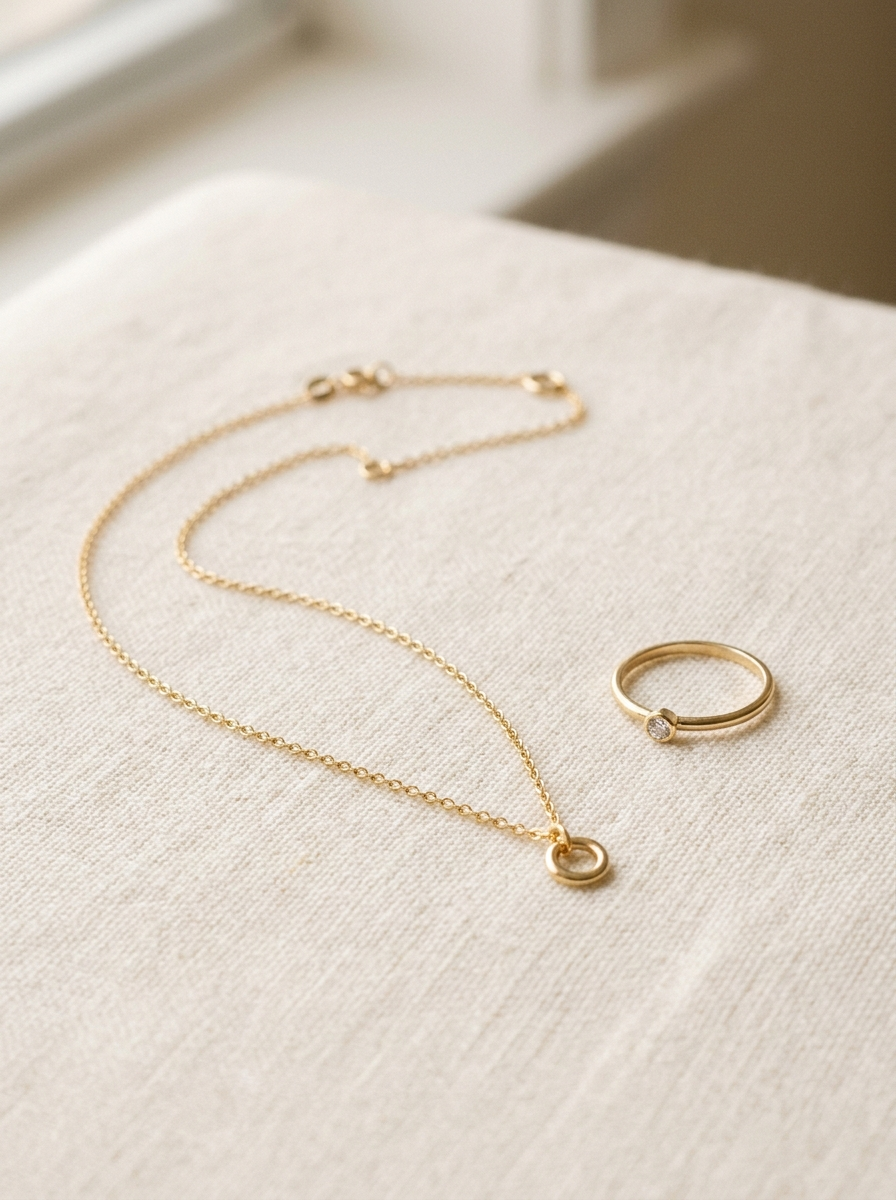
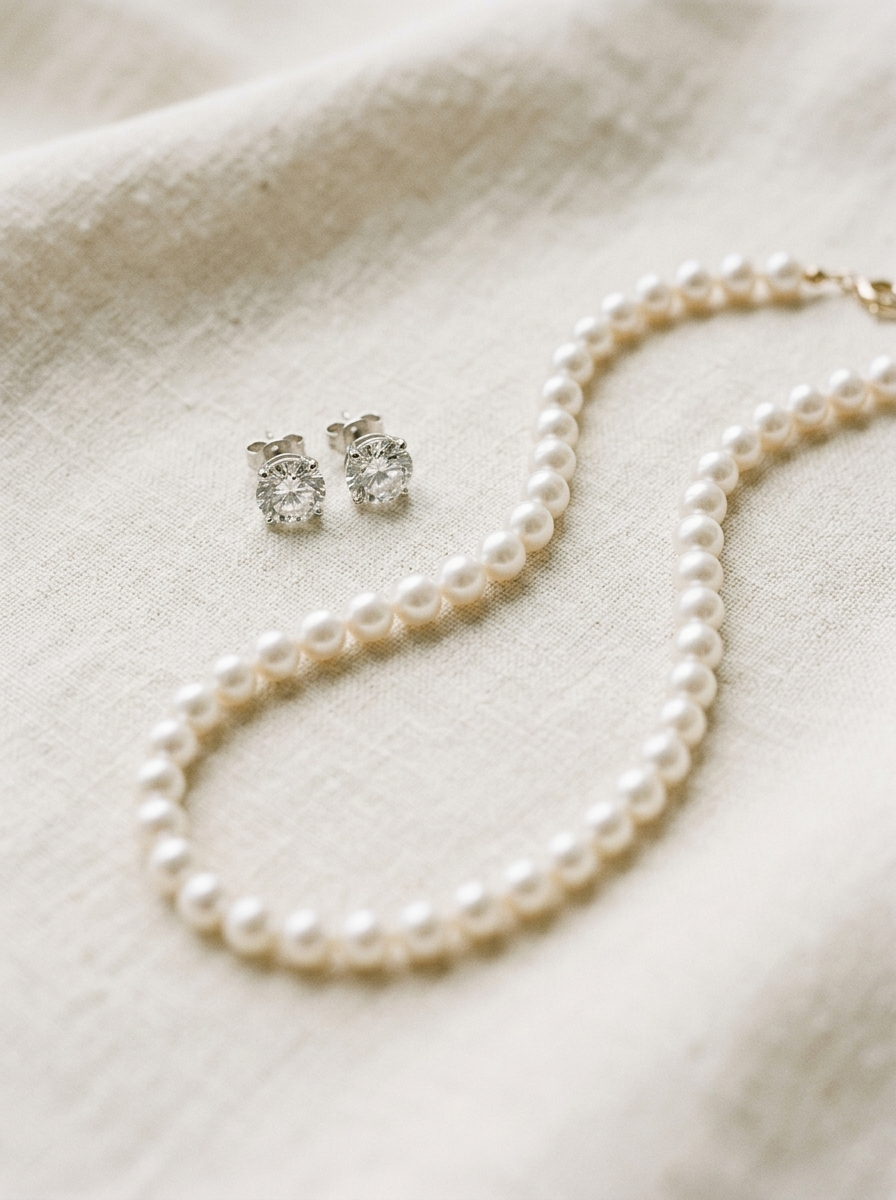
Update hero images to new women's accessories (pearls & emerald)

diff --git a/components/home/Hero.tsx b/components/home/Hero.tsx
@@ -2,6 +2,7 @@
 
 import React from "react";
 import Link from "next/link";
+import Image from "next/image";
 import { m } from "framer-motion";
 import { Heading, Text } from "../ui/Typography";
 import { Button } from "../ui/Button";
@@ -16,15 +17,24 @@ export function Hero() {
         transition={{ duration: 0.8 }}
         className="relative flex-1 h-full bg-[#EAE2D3] text-[#2B2622] flex flex-col items-center justify-center overflow-hidden group"
       >
+        <Image
+          src="/images/core-hero-bg.jpg"
+          alt="Core Collection - Minimalist gold chain and ring"
+          fill
+          priority
+          sizes="(max-width: 768px) 100vw, 50vw"
+          className="object-cover opacity-60 transition-transform duration-1000 group-hover:scale-105"
+        />
+        <div className="absolute inset-0 bg-[#EAE2D3]/40 z-0"></div>
         <Link href="#core-section" className="relative z-10 w-full h-full flex flex-col items-center justify-center text-center p-8">
-          <Heading as="h1" className="text-5xl md:text-7xl font-serif tracking-tight mb-4">
-            gl<span className="text-[#C9A227]">✦</span>nt
+          <Heading as="h1" className="text-6xl md:text-8xl font-serif font-bold tracking-tight mb-4">
+            glint
           </Heading>
-          <Text className="text-xs md:text-sm uppercase tracking-[0.3em] text-[#2B2622]/60 font-semibold mb-8">
+          <Text className="text-xs md:text-sm uppercase tracking-[0.3em] text-[#2B2622]/80 font-semibold mb-8">
             On Core
           </Text>
           
-          <Text className="max-w-xs text-sm md:text-base mx-auto mb-8 hidden md:block">
+          <Text className="max-w-xs text-sm md:text-base mx-auto mb-8 hidden md:block text-[#2B2622]/90 font-medium drop-shadow-sm">
             The quiet system. Minimalist pieces designed to be lived in, loved, and passed down.
           </Text>
           
@@ -41,19 +51,28 @@ export function Hero() {
         transition={{ duration: 0.8, delay: 0.2 }}
         className="relative flex-1 h-full bg-[#2B2622] text-[#EAE2D3] flex flex-col items-center justify-center overflow-hidden group"
       >
+        <Image
+          src="/images/loud-hero-bg.jpg"
+          alt="Loud Collection - Statement watch and coral drop hoop"
+          fill
+          priority
+          sizes="(max-width: 768px) 100vw, 50vw"
+          className="object-cover opacity-70 transition-transform duration-1000 group-hover:scale-105"
+        />
+        <div className="absolute inset-0 bg-[#2B2622]/50 z-0"></div>
         <Link href="#loud-section" className="relative z-10 w-full h-full flex flex-col items-center justify-center text-center p-8">
-          <Heading as="h1" className="text-5xl md:text-7xl font-serif tracking-tight mb-4 text-[#EAE2D3]">
-            gl<span className="text-[#C9A227]">✦</span>nt
+          <Heading as="h1" className="text-6xl md:text-8xl font-serif font-bold tracking-tight mb-4 text-[#EAE2D3] drop-shadow-lg">
+            glint
           </Heading>
-          <Text className="text-xs md:text-sm uppercase tracking-[0.3em] text-[#EAE2D3]/60 font-semibold mb-8">
+          <Text className="text-xs md:text-sm uppercase tracking-[0.3em] text-[#EAE2D3]/90 font-semibold mb-8 drop-shadow-md">
             On Loud
           </Text>
           
-          <Text className="max-w-xs text-sm md:text-base text-[#EAE2D3] mx-auto mb-8 hidden md:block">
+          <Text className="max-w-xs text-sm md:text-base text-[#EAE2D3] mx-auto mb-8 hidden md:block font-medium drop-shadow-md">
             The vivid family. Statement pieces pulled from our bestselling in-store colorways.
           </Text>
           
-          <Button variant="outline" className="border-[#EAE2D3] text-[#EAE2D3] hover:bg-[#EAE2D3] hover:text-[#2B2622] transition-colors">
+          <Button variant="outline" className="border-[#EAE2D3] text-[#EAE2D3] hover:bg-[#EAE2D3] hover:text-[#2B2622] transition-colors shadow-lg backdrop-blur-sm">
             Explore Loud
           </Button>
         </Link>

diff --git a/components/blocks/Footer.tsx b/components/blocks/Footer.tsx
@@ -22,7 +22,6 @@ export function Footer({ theme = "core" }: { theme?: "core" | "loud" }) {
   const textClass = "text-glint-ivory";
   const mutedTextClass = "text-glint-ivory/60";
   const hoverClass = isLoud ? "hover:text-[#C9A227]" : "hover:text-glint-gold";
-  const logoText = isLoud ? "GLINT LOUD" : "GLINT CORE";
   const basePath = isLoud ? "/loud" : "/core";
 
   return (
@@ -32,13 +31,13 @@ export function Footer({ theme = "core" }: { theme?: "core" | "loud" }) {
         {/* Brand & Newsletter */}
         <div className="lg:col-span-2 flex flex-col justify-between">
           <div>
-            <span className="font-serif text-3xl md:text-4xl block mb-6 tracking-[0.2em] uppercase">
-              {logoText}
+            <span className="font-serif font-bold text-4xl md:text-5xl block mb-6 tracking-tight">
+              glint
             </span>
             <Text className="text-glint-ivory/80 max-w-sm mb-12">
               {isLoud 
                 ? "Statement pieces designed to turn heads and start conversations."
-                : "Small sparks. Everyday. Fine jewelry designed to be lived in, loved, and passed down."}
+                : "small sparks. everyday. Fine jewelry designed to be lived in, loved, and passed down."}
             </Text>
           </div>
           
@@ -128,7 +127,7 @@ export function Footer({ theme = "core" }: { theme?: "core" | "loud" }) {
       {/* Bottom Bar */}
       <div className="max-w-[1600px] mx-auto border-t border-glint-ivory/10 pt-8 flex flex-col md:flex-row items-center justify-between gap-6">
         <Text className="text-xs text-glint-ivory/40">
-          © {new Date().getFullYear()} {logoText}. All rights reserved.
+          © {new Date().getFullYear()} glint. All rights reserved.
         </Text>
         
         <div className={cn("flex items-center space-x-6", mutedTextClass)}>

diff --git a/components/blocks/Navigation.tsx b/components/blocks/Navigation.tsx
@@ -21,8 +21,6 @@ export function Navigation({ theme = "core" }: { theme?: "core" | "loud" }) {
   const borderClass = isLoud ? "border-[#C9A227]/20" : "border-glint-charcoal/10";
   const textClass = isLoud ? "text-glint-ivory" : "text-glint-charcoal";
   const hoverClass = isLoud ? "hover:text-[#C9A227]" : "hover:text-glint-gold";
-  const logoText = "GLINT";
-  const logoHref = "/";
 
   return (
     <m.header
@@ -64,9 +62,9 @@ export function Navigation({ theme = "core" }: { theme?: "core" | "loud" }) {
 
         {/* Center: Logo */}
         <div className="w-1/3 text-center">
-          <Link href={logoHref}>
-            <span className={cn("font-serif text-2xl md:text-3xl tracking-[0.2em] uppercase", textClass)}>
-              {logoText}
+          <Link href="/">
+            <span className={cn("font-serif font-bold text-3xl md:text-4xl tracking-tight", textClass)}>
+              glint
             </span>
           </Link>
         </div>
